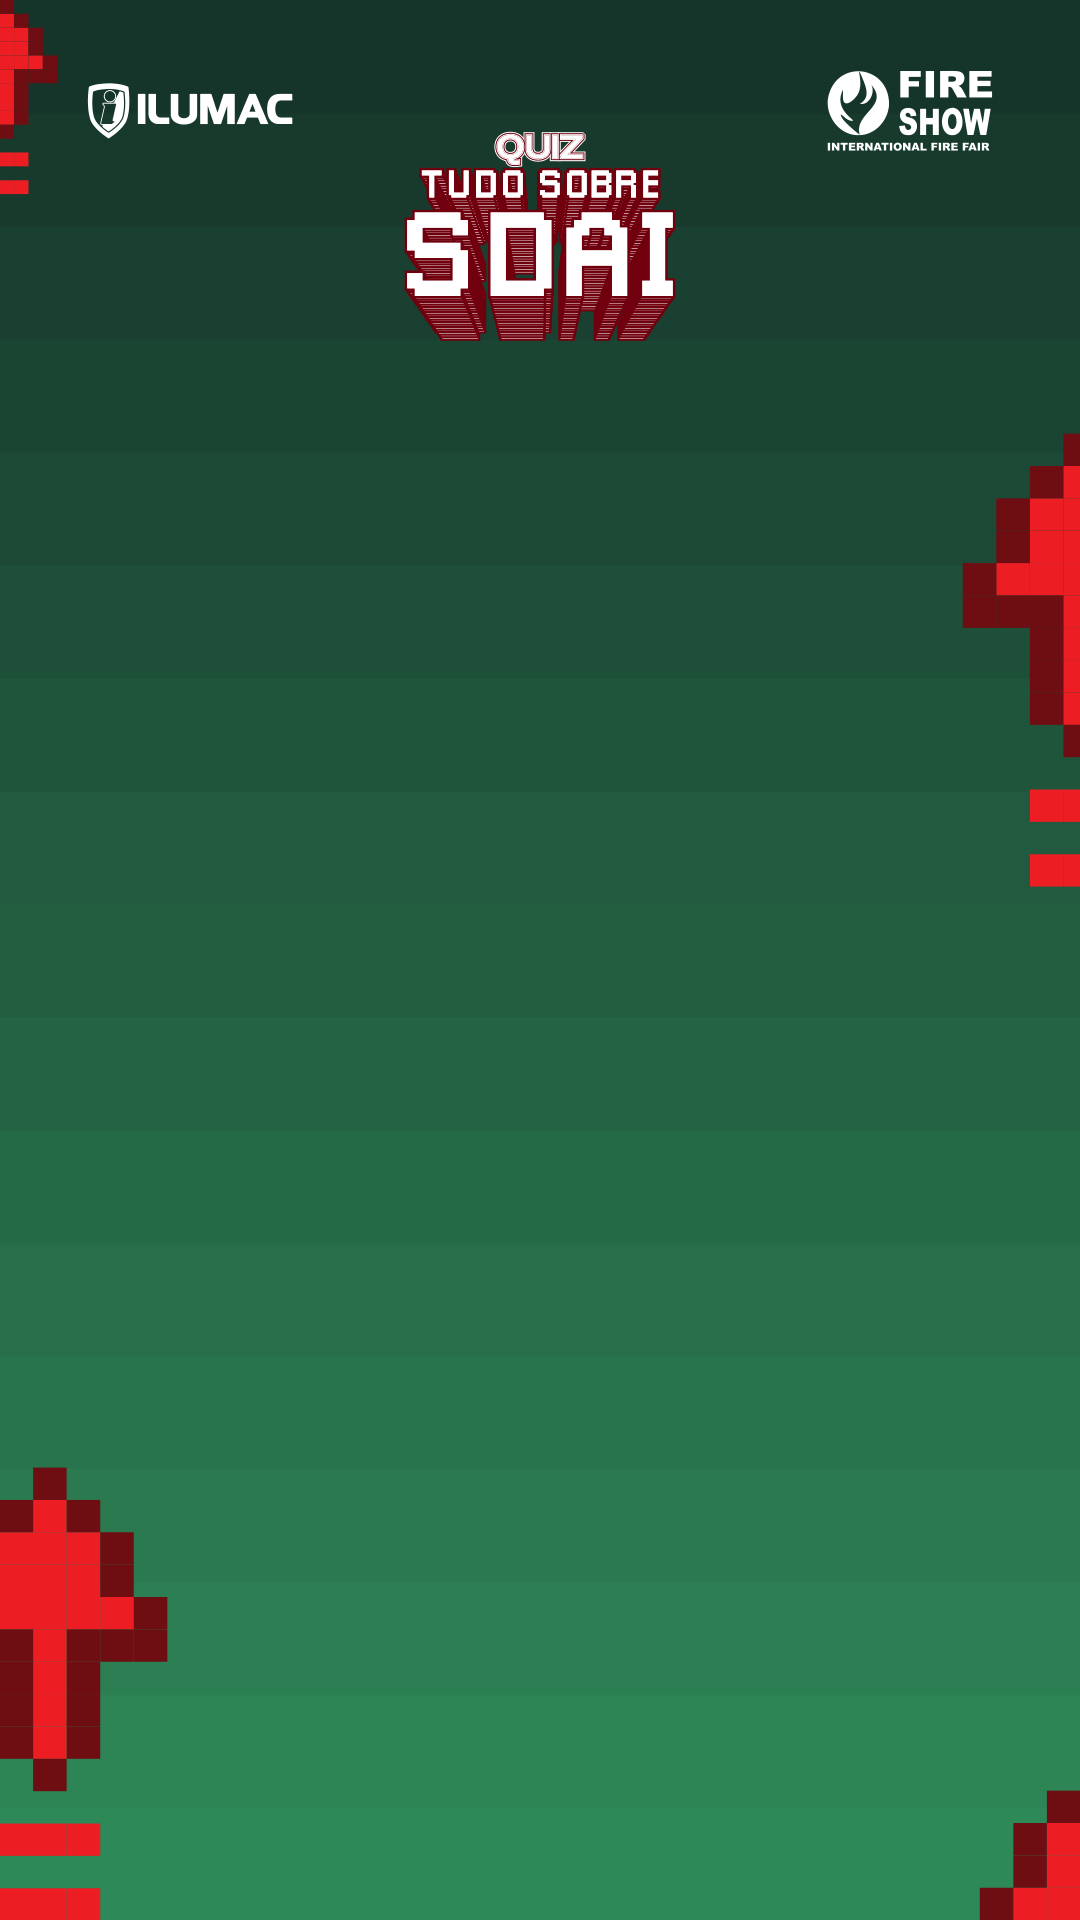
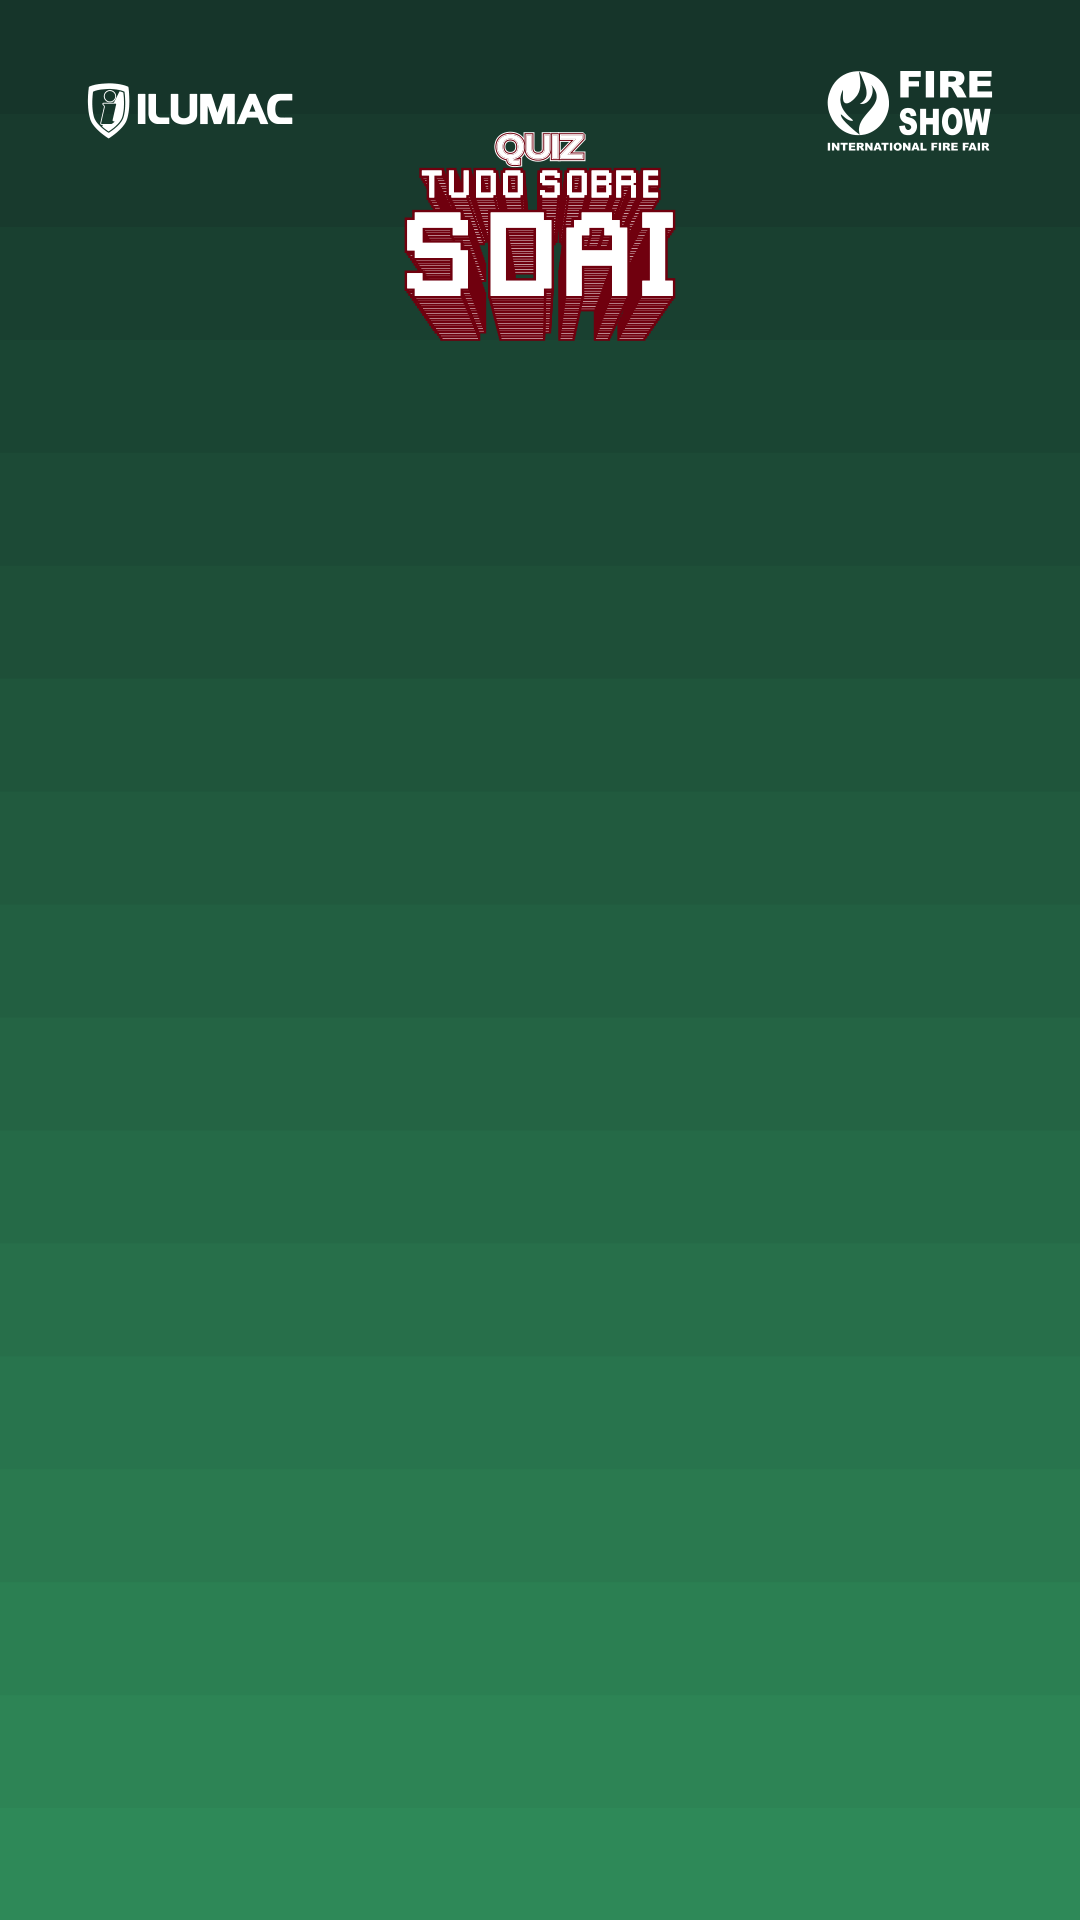
feat: animação das setas no acerto e dos X no erro
- O feedback entra com um fade curto no lugar da entrada em degraus
- tools/extrair_mockup.py separa a decoração das pranchetas de acerto e
  erro em peças soltas (static/img/mockup/deco-*.svg, posições em
  static/js/deco-mockup.js); o fundo fica sem elas
- Acerto: as setas sobem até o lugar e seguem subindo aos pulinhos
- Erro: os X balançam e repetem
- A arte do feedback é pré-carregada no início do quiz

diff --git a/static/js/quiz.js b/static/js/quiz.js
@@ -8,7 +8,7 @@
   "use strict";
 
   var FEEDBACK_MS = 2600; // contado só depois que a tela termina de entrar
-  var ENTRADA_MS = 500;   // deve casar com a animação reboque-entra no CSS
+  var ENTRADA_MS = 250;   // deve casar com a animação reboque-entra no CSS
   var LIMITE_MS = 20000;  // tempo por pergunta; zerou, conta como erro
 
   var params = new URLSearchParams(window.location.search);
@@ -33,6 +33,7 @@
 
   var overlay = document.getElementById("feedback-overlay");
   var reboque = document.getElementById("fb-reboque");
+  var fbDeco = document.getElementById("fb-deco");
   var fbMsg = document.getElementById("feedback-msg");
   var fbPontos = document.getElementById("feedback-pontos");
   var fbRespRotulo = document.getElementById("fb-resposta-rotulo");
@@ -215,9 +216,42 @@
     if (ev.animationName === "reboque-entra") aoChegar();
   });
 
+  /**
+   * Decoração do fundo como peças soltas (static/js/deco-mockup.js, gerado
+   * do .ai): setas no acerto, X no erro. Recriadas a cada feedback para a
+   * animação de entrada recomeçar do zero.
+   */
+  function montarDeco(acertou) {
+    var pecas = (window.DECO_MOCKUP || {})[acertou ? "certo" : "errado"] || [];
+    fbDeco.innerHTML = "";
+    pecas.forEach(function (p, i) {
+      var img = document.createElement("img");
+      img.src = "/static/img/mockup/" + p.src;
+      img.alt = "";
+      img.className = acertou ? "deco-seta" : "deco-x";
+      img.style.left = p.x + "px";
+      img.style.top = p.y + "px";
+      img.style.width = p.w + "px";
+      img.style.height = p.h + "px";
+      img.style.setProperty("--i", String(i));
+      fbDeco.appendChild(img);
+    });
+  }
+
+  // Pré-carrega a arte do feedback: sem isso, no primeiro acerto/erro o
+  // fundo e as peças apareciam alguns quadros depois do texto.
+  (function preCarregar() {
+    var d = window.DECO_MOCKUP || {};
+    var arquivos = ["fundo-certo.png", "fundo-errado.png", "selo-pontos-certo.svg",
+      "selo-pontos-errado.svg", "moldura-premio.svg", "btn-toque.svg", "mascote.svg"];
+    (d.certo || []).concat(d.errado || []).forEach(function (p) { arquivos.push(p.src); });
+    arquivos.forEach(function (a) { new Image().src = "/static/img/mockup/" + a; });
+  })();
+
   function mostrarFeedback(acertou, mensagem, pontos, respostaCerta) {
     overlay.classList.toggle("is-bom", acertou);
     overlay.classList.toggle("is-ruim", !acertou);
+    montarDeco(acertou);
     fbMsg.textContent = acertou ? "Resposta certa!" : "Resposta errada!";
     fbPontos.textContent = acertou ? "+" + pontos + " pontos" : "0 pontos";
     fbRespRotulo.textContent = acertou ? "Resposta" : "A certa era";

diff --git a/static/js/deco-mockup.js b/static/js/deco-mockup.js
@@ -1,0 +1,134 @@
+// Gerado por tools/extrair_mockup.py: decoração das telas de acerto e
+// erro, com a posição de cada peça na prancheta (px do totem).
+window.DECO_MOCKUP = {
+  "certo": [
+    {
+      "src": "deco-certo-1.svg",
+      "x": -0.3,
+      "y": 0.0,
+      "w": 57.5,
+      "h": 138.7
+    },
+    {
+      "src": "deco-certo-2.svg",
+      "x": -0.3,
+      "y": 152.5,
+      "w": 28.8,
+      "h": 13.9
+    },
+    {
+      "src": "deco-certo-3.svg",
+      "x": -0.3,
+      "y": 180.3,
+      "w": 28.8,
+      "h": 13.9
+    },
+    {
+      "src": "deco-certo-4.svg",
+      "x": 962.8,
+      "y": 433.7,
+      "w": 134.2,
+      "h": 323.6
+    },
+    {
+      "src": "deco-certo-5.svg",
+      "x": 1029.9,
+      "y": 789.6,
+      "w": 67.1,
+      "h": 32.3
+    },
+    {
+      "src": "deco-certo-6.svg",
+      "x": 1029.9,
+      "y": 854.3,
+      "w": 67.1,
+      "h": 32.3
+    },
+    {
+      "src": "deco-certo-7.svg",
+      "x": -0.4,
+      "y": 1467.6,
+      "w": 167.8,
+      "h": 323.6
+    },
+    {
+      "src": "deco-certo-8.svg",
+      "x": 979.8,
+      "y": 1790.7,
+      "w": 100.7,
+      "h": 129.5
+    },
+    {
+      "src": "deco-certo-9.svg",
+      "x": -0.4,
+      "y": 1823.5,
+      "w": 100.7,
+      "h": 32.3
+    },
+    {
+      "src": "deco-certo-10.svg",
+      "x": -0.4,
+      "y": 1888.3,
+      "w": 100.7,
+      "h": 32.3
+    }
+  ],
+  "errado": [
+    {
+      "src": "deco-errado-1.svg",
+      "x": 0.0,
+      "y": 0.0,
+      "w": 57.2,
+      "h": 138.7
+    },
+    {
+      "src": "deco-errado-2.svg",
+      "x": 0.0,
+      "y": 152.5,
+      "w": 28.5,
+      "h": 13.9
+    },
+    {
+      "src": "deco-errado-3.svg",
+      "x": 0.0,
+      "y": 180.3,
+      "w": 28.5,
+      "h": 13.9
+    },
+    {
+      "src": "deco-errado-4.svg",
+      "x": 987.1,
+      "y": 465.2,
+      "w": 92.9,
+      "h": 199.1
+    },
+    {
+      "src": "deco-errado-5.svg",
+      "x": -9.4,
+      "y": 498.3,
+      "w": 67.1,
+      "h": 129.5
+    },
+    {
+      "src": "deco-errado-6.svg",
+      "x": 6.9,
+      "y": 847.0,
+      "w": 182.8,
+      "h": 220.2
+    },
+    {
+      "src": "deco-errado-7.svg",
+      "x": 938.7,
+      "y": 1746.6,
+      "w": 141.3,
+      "h": 173.4
+    },
+    {
+      "src": "deco-errado-8.svg",
+      "x": -26.0,
+      "y": 1765.9,
+      "w": 247.6,
+      "h": 154.2
+    }
+  ]
+};

diff --git a/static/css/style.css b/static/css/style.css
@@ -765,13 +765,56 @@ a { color: inherit; text-decoration: none; }
 .feedback-overlay.is-bom .fb-reboque  { background-image: url("/static/img/mockup/fundo-certo.png"); }
 .feedback-overlay.is-ruim .fb-reboque { background-image: url("/static/img/mockup/fundo-errado.png"); }
 
+/* Entrada limpa: a tela de acerto/erro só aparece por cima da pergunta.
+   O nome "reboque-entra" é o que o quiz.js espera no animationend. */
 .feedback-overlay.is-visible .fb-reboque {
-  animation: reboque-entra 0.5s steps(5) both;
+  animation: reboque-entra 0.25s ease-out both;
 }
 
 @keyframes reboque-entra {
-  from { opacity: 0; transform: translateY(40px); }
-  to   { opacity: 1; transform: none; }
+  from { opacity: 0; }
+  to   { opacity: 1; }
+}
+
+/* ---- Decoração animada (peças de static/js/deco-mockup.js) ---- */
+
+.fb-deco img {
+  position: absolute;
+  display: block;
+  pointer-events: none;
+  will-change: transform;
+}
+
+/* Acerto: as setas sobem até o lugar e seguem subindo aos pulinhos, em
+   degraus de pixel. Cada uma sai um pouco depois da anterior. */
+.deco-seta {
+  animation:
+    seta-entra 0.5s cubic-bezier(0.2, 0.8, 0.3, 1) calc(var(--i) * 60ms) both,
+    seta-sobe 0.9s steps(3) calc(0.5s + var(--i) * 60ms) infinite;
+}
+
+@keyframes seta-entra {
+  from { transform: translateY(160px); opacity: 0; }
+  to   { transform: none; opacity: 1; }
+}
+
+@keyframes seta-sobe {
+  0%, 100% { transform: none; }
+  50%      { transform: translateY(-18px); }
+}
+
+/* Erro: os X balançam de um lado para o outro e param, e repetem. */
+.deco-x {
+  transform-origin: 50% 50%;
+  animation: x-balanca 1.6s ease-in-out calc(var(--i) * 70ms) infinite;
+}
+
+@keyframes x-balanca {
+  0%, 45%, 100% { transform: none; }
+  9%  { transform: translateX(-12px) rotate(-10deg); }
+  18% { transform: translateX(12px) rotate(10deg); }
+  27% { transform: translateX(-8px) rotate(-6deg); }
+  36% { transform: translateX(6px) rotate(4deg); }
 }
 
 .feedback-msg {

diff --git a/templates/quiz.html b/templates/quiz.html
@@ -39,6 +39,8 @@
     <!-- Feedback: pranchetas 8 (acerto, fundo verde) e 9 (erro) -->
     <div id="feedback-overlay" class="feedback-overlay" hidden>
       <div class="fb-reboque" id="fb-reboque">
+        <!-- setas (acerto) e X (erro) do mockup, animados pelo CSS -->
+        <div class="fb-deco" id="fb-deco" aria-hidden="true"></div>
         <div id="fb-card">
           <p id="feedback-msg" class="px feedback-msg"></p>
           <p id="feedback-pontos" class="px feedback-pontos"></p>
@@ -57,6 +59,7 @@
   </main>
 
   <script src="/static/js/kiosk.js"></script>
+  <script src="/static/js/deco-mockup.js"></script>
   <script src="/static/js/quiz.js"></script>
 </body>
 </html>

diff --git a/tools/extrair_mockup.py b/tools/extrair_mockup.py
@@ -16,6 +16,7 @@ Uso (PyMuPDF não é dependência do jogo, só desta ferramenta):
     pip install pymupdf
     python tools/extrair_mockup.py caminho/para/GAME_QUIZZ_TUDO_SOBRE_SDAI.ai
 """
+import json
 import os
 import sys
 
@@ -131,12 +132,14 @@ def salvar(nome, largura, altura, corpo):
     print("%-28s %6.1f KB" % (nome, len(svg) / 1024))
 
 
-def fundo(pagina, nome, tirar=(), manter=None):
-    """Prancheta inteira, sem os caminhos contidos nas zonas `tirar`.
-    `manter(i, d)` pode forçar a permanência de um caminho."""
+def fundo(pagina, nome, tirar=(), manter=None, pular=()):
+    """Prancheta inteira, sem os caminhos contidos nas zonas `tirar` nem os
+    de índice em `pular`. `manter(i, d)` pode forçar a permanência."""
     corpo = []
     for i, d in enumerate(pagina.get_drawings()):
         r = d["rect"]
+        if i in pular:
+            continue
         if manter and manter(i, d):
             corpo.append(elemento(d, 0, 0))
             continue
@@ -157,6 +160,45 @@ def peca(pagina, nome, zona, filtro=None, margem=0):
             continue
         corpo.append(elemento(d, x0, y0))
     salvar(nome, zona[2] - zona[0] + 2 * margem, zona[3] - zona[1] + 2 * margem, corpo)
+
+
+def decoracao(pagina, prefixo, tirar):
+    """Separa a decoração em pixel (setas, X, blocos) do fundo, uma peça
+    por grupo de caminhos encostados, para o CSS animar cada uma.
+    Devolve os índices usados (para o fundo pular) e a lista de peças com
+    a posição na prancheta."""
+    grupos = []
+    for i, d in enumerate(pagina.get_drawings()):
+        r = d["rect"]
+        if r.width >= 1079 or any(dentro(r, z) for z in tirar):
+            continue  # faixa do degradê, conteúdo, logos ou título
+        grupos.append([r.x0, r.y0, r.x1, r.y1, [i]])
+    juntou = True
+    while juntou:
+        juntou = False
+        saida = []
+        for g in grupos:
+            for o in saida:
+                if not (g[2] + 3 < o[0] or g[0] - 3 > o[2] or g[3] + 3 < o[1] or g[1] - 3 > o[3]):
+                    o[0], o[1] = min(o[0], g[0]), min(o[1], g[1])
+                    o[2], o[3] = max(o[2], g[2]), max(o[3], g[3])
+                    o[4] += g[4]
+                    juntou = True
+                    break
+            else:
+                saida.append(g)
+        grupos = saida
+
+    desenhos = pagina.get_drawings()
+    pecas, usados = [], set()
+    for n, (x0, y0, x1, y1, idx) in enumerate(sorted(grupos, key=lambda g: (g[1], g[0]))):
+        nome = "deco-%s-%d.svg" % (prefixo, n + 1)
+        idx = sorted(idx)
+        salvar(nome, x1 - x0, y1 - y0, [elemento(desenhos[i], x0, y0) for i in idx])
+        usados.update(idx)
+        pecas.append({"src": nome, "x": round(x0, 1), "y": round(y0, 1),
+                      "w": round(x1 - x0, 1), "h": round(y1 - y0, 1)})
+    return usados, pecas
 
 
 def rasterizar(nome):
@@ -199,8 +241,18 @@ def main(caminho_ai):
     fundo(doc[CADASTRO], "fundo-cadastro.svg", ZONAS[CADASTRO], painel)
     fundo(doc[REGRAS], "fundo-regras.svg", ZONAS[REGRAS], painel)
     fundo(doc[RESULTADO], "fundo-resultado.svg", ZONAS[RESULTADO], painel)
-    fundo(doc[CERTO], "fundo-certo.svg", ZONAS[CERTO], painel)
-    fundo(doc[ERRADO], "fundo-errado.svg", ZONAS[ERRADO], painel)
+    # Acerto e erro: setas e X saem do fundo e viram peças soltas, que o
+    # feedback anima (setas sobem no acerto, X balançam no erro).
+    logos_titulo = (80, 55, 1000, 360)
+    deco = {}
+    for pag, chave in ((CERTO, "certo"), (ERRADO, "errado")):
+        usados, deco[chave] = decoracao(doc[pag], chave, ZONAS[pag] + [logos_titulo])
+        fundo(doc[pag], "fundo-%s.svg" % chave, ZONAS[pag], painel, usados)
+    js = os.path.join(os.path.dirname(__file__), "..", "static", "js", "deco-mockup.js")
+    with open(js, "w", encoding="utf-8") as f:
+        f.write("// Gerado por tools/extrair_mockup.py: decoração das telas de acerto e\n"
+                "// erro, com a posição de cada peça na prancheta (px do totem).\n"
+                "window.DECO_MOCKUP = %s;\n" % json.dumps(deco, indent=2))
 
     # Peças soltas
     peca(doc[ABERTURA], "titulo-grande.svg", (215, 280, 905, 830))
